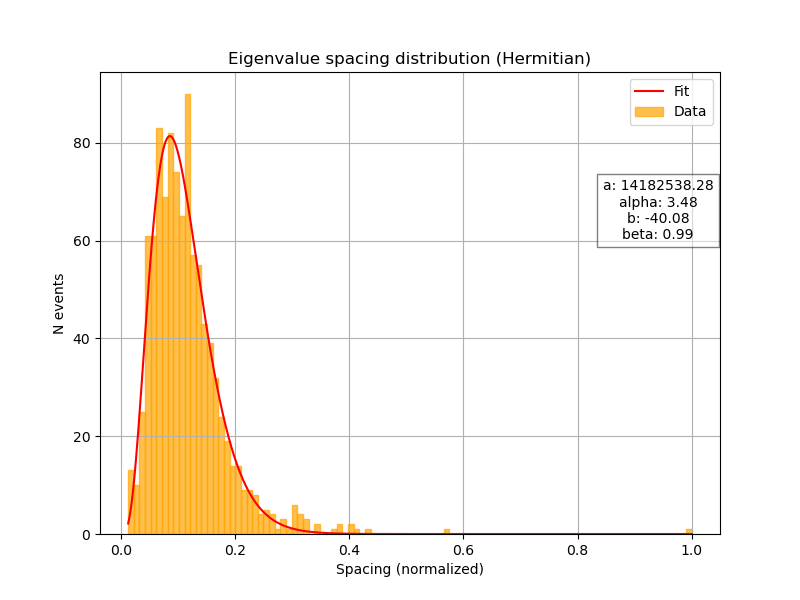
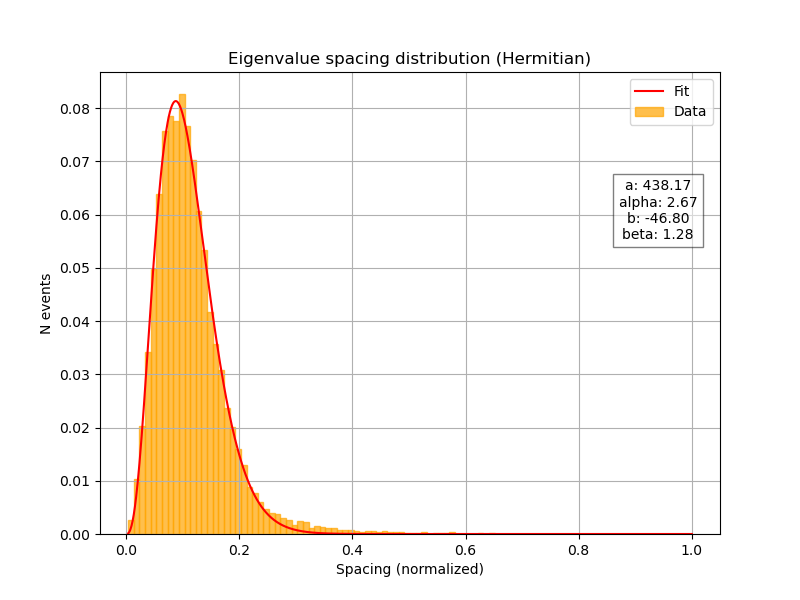
Ex3 donegit add --all git add --all

diff --git a/hw/hw3/random_mat.py b/hw/hw3/random_mat.py
@@ -38,37 +38,52 @@ def real_diag(N):
     
     return D
 
-def spacingH(H, trim=True):
-    
-    # Compute and order the eigenvalues
-    eigvals = np.linalg.eigvalsh(H) # Returns the eigenvalues already in ascending order
-    
-    if trim:
-        eigvals = eigvals[:eigvals.shape[0] - 1]
+def spacingH(N, N_matrices, trim=True):
     
     spacing = []
-    for i in range(eigvals.shape[0] - 1):       # - 1 otherwise index out-of-bounds
-        s = eigvals[i+1] - eigvals[i]
-        spacing.append(s)
+    
+    for mat in range(N_matrices):
+        # Generate the matrix
+        H = gen_herm(N)
+        
+        # Compute and order the eigenvalues
+        eigvals = np.linalg.eigvalsh(H) # Returns the eigenvalues already in ascending order
+        
+        if trim:
+            eigvals = eigvals[:eigvals.shape[0] - 1]
+        
+        spacing_temp = []
+        for i in range(eigvals.shape[0] - 1):       # - 1 otherwise index out-of-bounds
+            s = eigvals[i+1] - eigvals[i]
+            spacing_temp.append(s)
+        
+        spacing.extend(spacing_temp)
     
     spacing_norm = spacing / np.max(spacing)
     
     return spacing_norm, eigvals
     
-def spacingD(D, trim=True):
-    
-    # Compute and order the eigenvalues
-    eigvals = np.linalg.eigvals(D) # Returns the eigenvalues already in ascending order
-    eigvals = np.sort(eigvals)
-    
-    if trim:
-        eigvals = eigvals[:eigvals.shape[0] - 1]
+def spacingD(N, N_matrices, trim=True):
     
     spacing = []
-    for i in range(eigvals.shape[0] - 1):       # - 1 otherwise index out-of-bounds
-        s = eigvals[i+1] - eigvals[i]
-        spacing.append(s)
     
+    for mat in range(N_matrices):
+        # Generate the matrix
+        D = gen_herm(N)
+        # Compute and order the eigenvalues
+        eigvals = np.linalg.eigvals(D) # Returns the eigenvalues already in ascending order
+        eigvals = np.sort(eigvals)
+        
+        if trim:
+            eigvals = eigvals[:eigvals.shape[0] - 1]
+        
+        spacing_temp = []
+        for i in range(eigvals.shape[0] - 1):       # - 1 otherwise index out-of-bounds
+            s = eigvals[i+1] - eigvals[i]
+            spacing_temp.append(s)
+
+        spacing.extend(spacing_temp)
+        
     spacing_norm = spacing / np.max(spacing)
     
     return spacing_norm, eigvals
@@ -114,10 +129,10 @@ def fitnplot(data, func, n_bins, mode, p0=[1,1,-1,1]):
     bin_centers = (bin_edges[:-1] + bin_edges[1:]) / 2
 
     # Normalize counts
-    #counts_norm = counts / counts.sum()
+    counts_norm = counts / counts.sum()
     
     # Fit with the given function
-    params, params_cov = curve_fit(func, bin_centers, counts, p0=p0, maxfev=1000) # Pay attention to correctly initilialize the parameters (p0)
+    params, params_cov = curve_fit(func, bin_centers, counts_norm, p0=p0, maxfev=1000) # Pay attention to correctly initilialize the parameters (p0)
 
     # Print the best parameters
     print('BEST PARAMETERS retrieved from the fit:\n')
@@ -129,7 +144,7 @@ def fitnplot(data, func, n_bins, mode, p0=[1,1,-1,1]):
     
     # Plotting
     plt.figure(figsize=(8, 6))
-    plt.bar(bin_centers, counts, width=(bin_edges[1] - bin_edges[0]), color='orange', edgecolor='orange', alpha=0.7, label='Data')
+    plt.bar(bin_centers, counts_norm, width=(bin_edges[1] - bin_edges[0]), color='orange', edgecolor='orange', alpha=0.7, label='Data')
     plt.plot(s_vals, func(s_vals, params[0], params[1], params[2], params[3]), color='red', label='Fit')
     plt.text(0.9, 0.7, f'a: {params[0]:.2f}\nalpha: {params[1]:.2f}\nb: {params[2]:.2f}\nbeta: {params[3]:.2f}', horizontalalignment='center', verticalalignment='center', transform=plt.gca().transAxes, bbox=dict(facecolor='white', alpha=0.5)) # add a box for the parameters
     plt.xlabel('Spacing (normalized)')
@@ -146,17 +161,20 @@ def fitnplot(data, func, n_bins, mode, p0=[1,1,-1,1]):
 # Size
 N = 1000
 
+# Number of matrices to generate
+N_matrices = 30
+
 # Set the seed
 #np.random.seed(12345)
 np.random.seed(11111)
 
 #  Full random hermitian matrix
-data_h, eig_r = spacingH(gen_herm(N))
+data_h, eig_r = spacingH(N, N_matrices)
 #print(data_h)
 #print(eig_r)
 
 # Diagonal real random matrix
-data_d, eig_d = spacingD(real_diag(N))
+data_d, eig_d = spacingD(N, N_matrices)
 #print(data_d)
 #print(eig_d)
 
